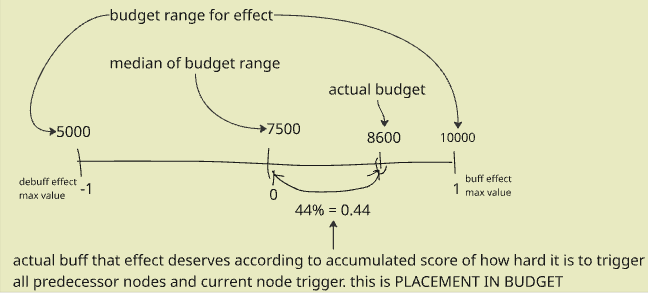
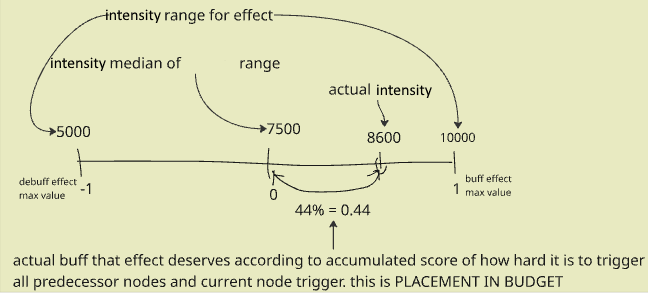
refactor: change wording for intensity, from budget

diff --git a/src/en/space-station-14/departments/science/proposals/xenoarch-redux.md b/src/en/space-station-14/departments/science/proposals/xenoarch-redux.md
@@ -84,12 +84,12 @@ All remaining nodes are simply locked and have no behavior.
 |Node activation| invoking effect of node. Can be done by manual interaction, usually is done upon unlocking node. **Manual activation invokes all active nodes in artifact.**|
 |Node unlocking| opening node for future activations. Can be done by executing list of triggers on the node (which is list of trigger on node and all chain of predecessors, connected to it by edges) |
 |Active node| Active are nodes which are both 'unlocked' and are last in chain of unlocked nodes, connected by edges (nodes with most depth). Only active nodes effects are invoked when artifact is activated.|
-|Budget range| Min and max values, between which acceptable range of budget lies. Both triggers and effects have budget range, each of them have own values|
-|Trigger budget|Score for how hard this trigger is. The harder trigger condition is, the greater trigger budget should be.|
-|Virtual budget|Proposed amount of score node could have, based on predecessor and depth. Can be used to pick trigger (should be withing its 'Budget range') which then decides 'actual budget' (by adding 'Trigger budget')|
-|Actual budget| Score-estimate of how 'valuable' this node is. Increases with depth and amount of predecessors. |
+|Intensity range| Min and max values, between which acceptable range of intensity lies. Both triggers and effects have intensity range, each of them have own values|
+|Trigger intensity|Score for how hard this trigger is. The harder trigger condition is, the greater trigger intensity should be.|
+|Potential intensity|Proposed amount of score node could have, based on predecessor and depth. Can be used to pick trigger (should be withing its 'Intensity range') which then decides 'actual intensity' (by adding triggers 'intensity')|
+|Actual intensity| Score-estimate of how 'valuable' this node is. Increases with depth and amount of predecessors. |
 |Aspect of effect| Separate part of node effect that, amount of which can be changed. Like range of teleportation can be increased or decreased.|
-|Placement in budget| Floating point value from -1 to 1. Amount of buff or debuff that node should receieve. Calculated using 'actual budget' of node and its effect 'budget range'. Exact amount certain aspect should get is determined by strategy.|
+|Placement in budget| Floating point value from -1 to 1. Amount of buff or debuff that node should receieve. Calculated using 'actual intensity' of node and its effect 'intensity range'. Exact amount certain aspect should get is determined by strategy.|
 |Meta-nodes| Node effects, which are doing nothing by themselves upon activation, but rather add modifiers to effect aspects of other nodes effects|
 
 ### Activation and Unlocking Nodes
@@ -210,23 +210,23 @@ flowchart TB
         direction TB
         subgraph P1[Preparation]
             direction LR
-            A1("Get current node virtual budget: (sum of direct predecessor actual budgets + 2000 * depth) ")
-            --> A2(Pick triggers from list of remaining ones, for which current virtual budget fits into range)
+            A1("Get current node potential intensity: (sum of direct predecessor actual intensity + 2000 * depth) ")
+            --> A2(Pick triggers from list of remaining ones, for which current potential intensity fits into range)
             --> A21{Do we have any triggers?}
             -- no --> EMPTY(Return no node)
             A21 -- yes --> A3("Roll trigger (with respect to weights but only between picked ones)")
             --> A4("Remove rolled trigger from pool")
-            --> A5("Get current node actual budget: (sum of direct predecessors + actual budget of picked trigger)")
-            --> A6(Pick effects from list, for which current actual budget fits into range)
+            --> A5("Get current node actual intensity: (sum of direct predecessors + actual intensity of picked trigger)")
+            --> A6(Pick effects from list, for which current actual intensity fits into range)
             --> A7{Do we have any effects?}
             -- no --> EMPTY
             A7 -- yes --> A8("Roll effect (with respect to weights but only between picked ones)")
         end
         P1 --> P2
-        subgraph P2[Apply actual budget to node]
+        subgraph P2[Apply actual intensity to node]
             direction LR
             B1(Spawn node entity and add it to container)
-            --> B2("Get point on scale of effect budget range, where node actual budget is placed - [actual budget placement]")
+            --> B2("Get point on scale of effect intensity range, where node actual intensity is placed - [actual intensity placement]")
             --> B3(Pick strategy for splitting bonus on effects)
             --> B4(Get bonus amount for each modifier that current node supports and save it)
             --> B5(Apply bonuses on node init - durability etc.)
@@ -243,28 +243,28 @@ For unlocking mechanic to work properly all triggers are made unique, which mean
 
 **remark: Almost all of budget things is internal game mechanics and is not for player to view.**
 
-For balance we introduce concept of 'node budget'. 
-- Each trigger on the list gets 'budget range' and 'budget' assigned, according to how hard it is to activate by default (w/o interference).
-- Each effect on the list gets 'budget range' it can match to. Some effects can scale (give more resources), giving them greater range, while others cannot.
+For balance we introduce concept of 'intensity'. 
+- Each trigger on the list gets 'intensity range' and 'intensity' assigned, according to how hard it is to activate by default (w/o interference).
+- Each effect on the list gets 'intensity range' it can match to. Some effects can scale (give more resources), giving them greater range, while others cannot.
 
 Trigger and effect rolling should look like following:
-  1. When trying roll trigger - our 'virtual budget' is sum of 'actual budget' for each node predecessor + (depth * 2000). For starting node that will be 0, so we only roll triggers which have 'Budget range' like '0-*' (things like using tools, feeding artifact, using water etc). 
-  When rolling between triggers we consider weights that were placed upon them in full weighted list (got from XenoArtifactComponent), but we roll only between picked by budget options. 
+  1. When trying roll trigger - our 'potential intensity' is sum of 'actual intensity' for each node predecessor + (depth * 2000). For starting node that will be 0, so we only roll triggers which have 'Intensity range' like '0-*' (things like using tools, feeding artifact, using water etc). 
+  When rolling between triggers we consider weights that were placed upon them in full weighted list (got from XenoArtifactComponent), but we roll only between picked by intensity options. 
   So even if we have very low weight option, but it is the only one we can roll upon, probability of picking  it will be 100%
-  2. After picking trigger we get trigger 'budget' from it - that, plus 'actual budget' of direct predecessors is current node's 'actual budget'
-  3. Then we roll for 'effect' that have this budget in its 'budget range', in same manner we rolled trigger
+  2. After picking trigger we get trigger 'intensity' from it - that, plus 'actual intensity' of direct predecessors is current node's 'actual intensity'
+  3. Then we roll for 'effect' that have this intensity in its 'intensity range', in same manner we rolled trigger
 
-Example of segment generation process (detailed version w/o how actual budget applies mods to xeno artifact effect aspects):
+Example of segment generation process (detailed version w/o how actual intensity applies mods to xeno artifact effect aspects):
 We rolled tree with 1 tier0 node, 1 tier2 node and 1 tier3 node. All tier0 nodes connect to tier1.
-1. roll tier0 node from triggers, 'virtual budget' is 0, 'trigger budget range' 0 - 4 000, we get 'trigger budget' 1 500, resulting 'actual budget' is 1 500
-2. roll effect from effects with with 1 500 - for example, budget range 1 000 - 6 000 fits nicely.
-4. calculate tier1 node virtual budget : 1 500 (1 node of tier0 are direct predessors) + 2 000 * 1 (its tier1 node) = 3 500
-5. roll trigger with 'virtual budget' of 3 500 - for example trigger with 'budget range' 2 000 - 10 000. We get 'trigger budget' 7 500 and get node 'actual budget' 1 500 (predessors sum) + 7 500 = 9 000
-6. roll effect with budget range that will include 9 000 - for example 10 000 - 15 000
-7. calculate tier2 node 'virtual budget' - 9 000 (tier1 direct predessor) + 2000 * 2 (its tier2 node) = 13 000. Roll trigger with 'budget range' that contain 13 000 (for example, trigger with range 10 000-> 30 000). Trigger budget 14 000 makes 'actual node budget' 9 000 + 14 000 = 23 000
-8. roll effect with budget range that will contain 23 000
+1. roll tier0 node from triggers, 'potential intensity' is 0, 'trigger intensity range' 0 - 4 000, we get 'trigger intensity' 1 500, resulting 'actual intensity' is 1 500
+2. roll effect from effects with with 1 500 - for example, intensity range 1 000 - 6 000 fits nicely.
+4. calculate tier1 node potential intensity : 1 500 (1 node of tier0 are direct predessors) + 2 000 * 1 (its tier1 node) = 3 500
+5. roll trigger with 'potential intensity' of 3 500 - for example trigger with 'intensity range' 2 000 - 10 000. We get 'trigger intensity' 7 500 and get node 'actual intensity' 1 500 (predessors sum) + 7 500 = 9 000
+6. roll effect with intensity range that will include 9 000 - for example 10 000 - 15 000
+7. calculate tier2 node 'potential intensity' - 9 000 (tier1 direct predessor) + 2000 * 2 (its tier2 node) = 13 000. Roll trigger with 'intensity range' that contain 13 000 (for example, trigger with range 10 000-> 30 000). Trigger intensity 14 000 makes 'actual node intensity' 9 000 + 14 000 = 23 000
+8. roll effect with intensity range that will contain 23 000
 
-### Placement in budget and effect modifiers
+### Placement in "budget" and effect modifiers
 
 As finishing touch for balancing and making related gameplay more deep, we must 
 
@@ -323,9 +323,9 @@ yaml:
 ```
   - type: XenoArtifactNodeBudget
     modifyBy:
-      enum.XenoArtifactEffectModifier.Power: "budgetDependant add -15,30"
-      enum.XenoArtifactEffectModifier.Range: "budgetDependant add -3,2,10"
-      enum.XenoArtifactEffectModifier.Duration: "budgetDependant multiply -5,15,20"
+      enum.XenoArtifactEffectModifier.Power: "intensityDependant add -15,30"
+      enum.XenoArtifactEffectModifier.Range: "intensityDependant add -3,2,10"
+      enum.XenoArtifactEffectModifier.Duration: "intensityDependant multiply -5,15,20"
 ```
 So it is Dictionary<Enum, ModifierProviderBase> where enum is artifact aspect, and value is class with simple signature of:
 ```
@@ -334,9 +334,9 @@ public float Modify(float originalValue)
 
 So it eats some value and returns it modified. Each modifier derived class have its own logic on how to modify value. Lets look at our previous example one more time:
 ```
-enum.XenoArtifactEffectModifier.Range: "budgetDependant add -3,0,10"
+enum.XenoArtifactEffectModifier.Range: "intensityDependant add -3,0,10"
 ```
-* 'budgetDependant add' means BudgetDependantAddEffectModifier, a short and more easy to read declaration of type
+* 'intensityDependant add' means intensityDependantAddEffectModifier, a short and more easy to read declaration of type
 * -3 means that at -1 'placement in budget' it will ADD -3 to 'originalValue' and return result, if method 'Modify' will be called.
 * 2 means it will add 2 on 0 'placement in budget' it will ADD 2 to 'originalValue' and return result. All points in-between are linerly extrapolated, which means that, for example,
 if we have -0.5 'placement in budget', we are going to have 2[central value] + ((-3-(-2))[max distance from center] *0.5[current distance]) = -0.5
@@ -344,7 +344,7 @@ if we have -0.5 'placement in budget', we are going to have 2[central value] + (
 * So if we will have 0.5 'placement in budget', we will get 2[central value] +((10-2)[max distance from center])*0.5 = 6
 
 Number in the middle (marker for 0 'placement in budget') is not mandatory, if skipped it will approximate between 2 provided numbers (min and max).
-On top of 'add' we can apply 'multiply' for cases when we need to multiply effectiveness in some way (for examply, if we want max power output an 1.0 'placement in budget' be x4 of default one, and x0.5 when at -1.0, we would use enum.XenoArtifactEffectModifier.Range: "budgetDependant multiply 0.5,4") and 'log' (it will multiply value by log of 'placement in budget' with provided base and minor modifications to make numbers scale in more neat way).
+On top of 'add' we can apply 'multiply' for cases when we need to multiply effectiveness in some way (for examply, if we want max power output an 1.0 'placement in budget' be x4 of default one, and x0.5 when at -1.0, we would use enum.XenoArtifactEffectModifier.Range: "intensityDependant multiply 0.5,4") and 'log' (it will multiply value by log of 'placement in budget' with provided base and minor modifications to make numbers scale in more neat way).
 
 Effect modifiers come into play in 2 major scenarios:
 1. Artifact **generation** enforces some aspects (currently - only durability) to be affected
